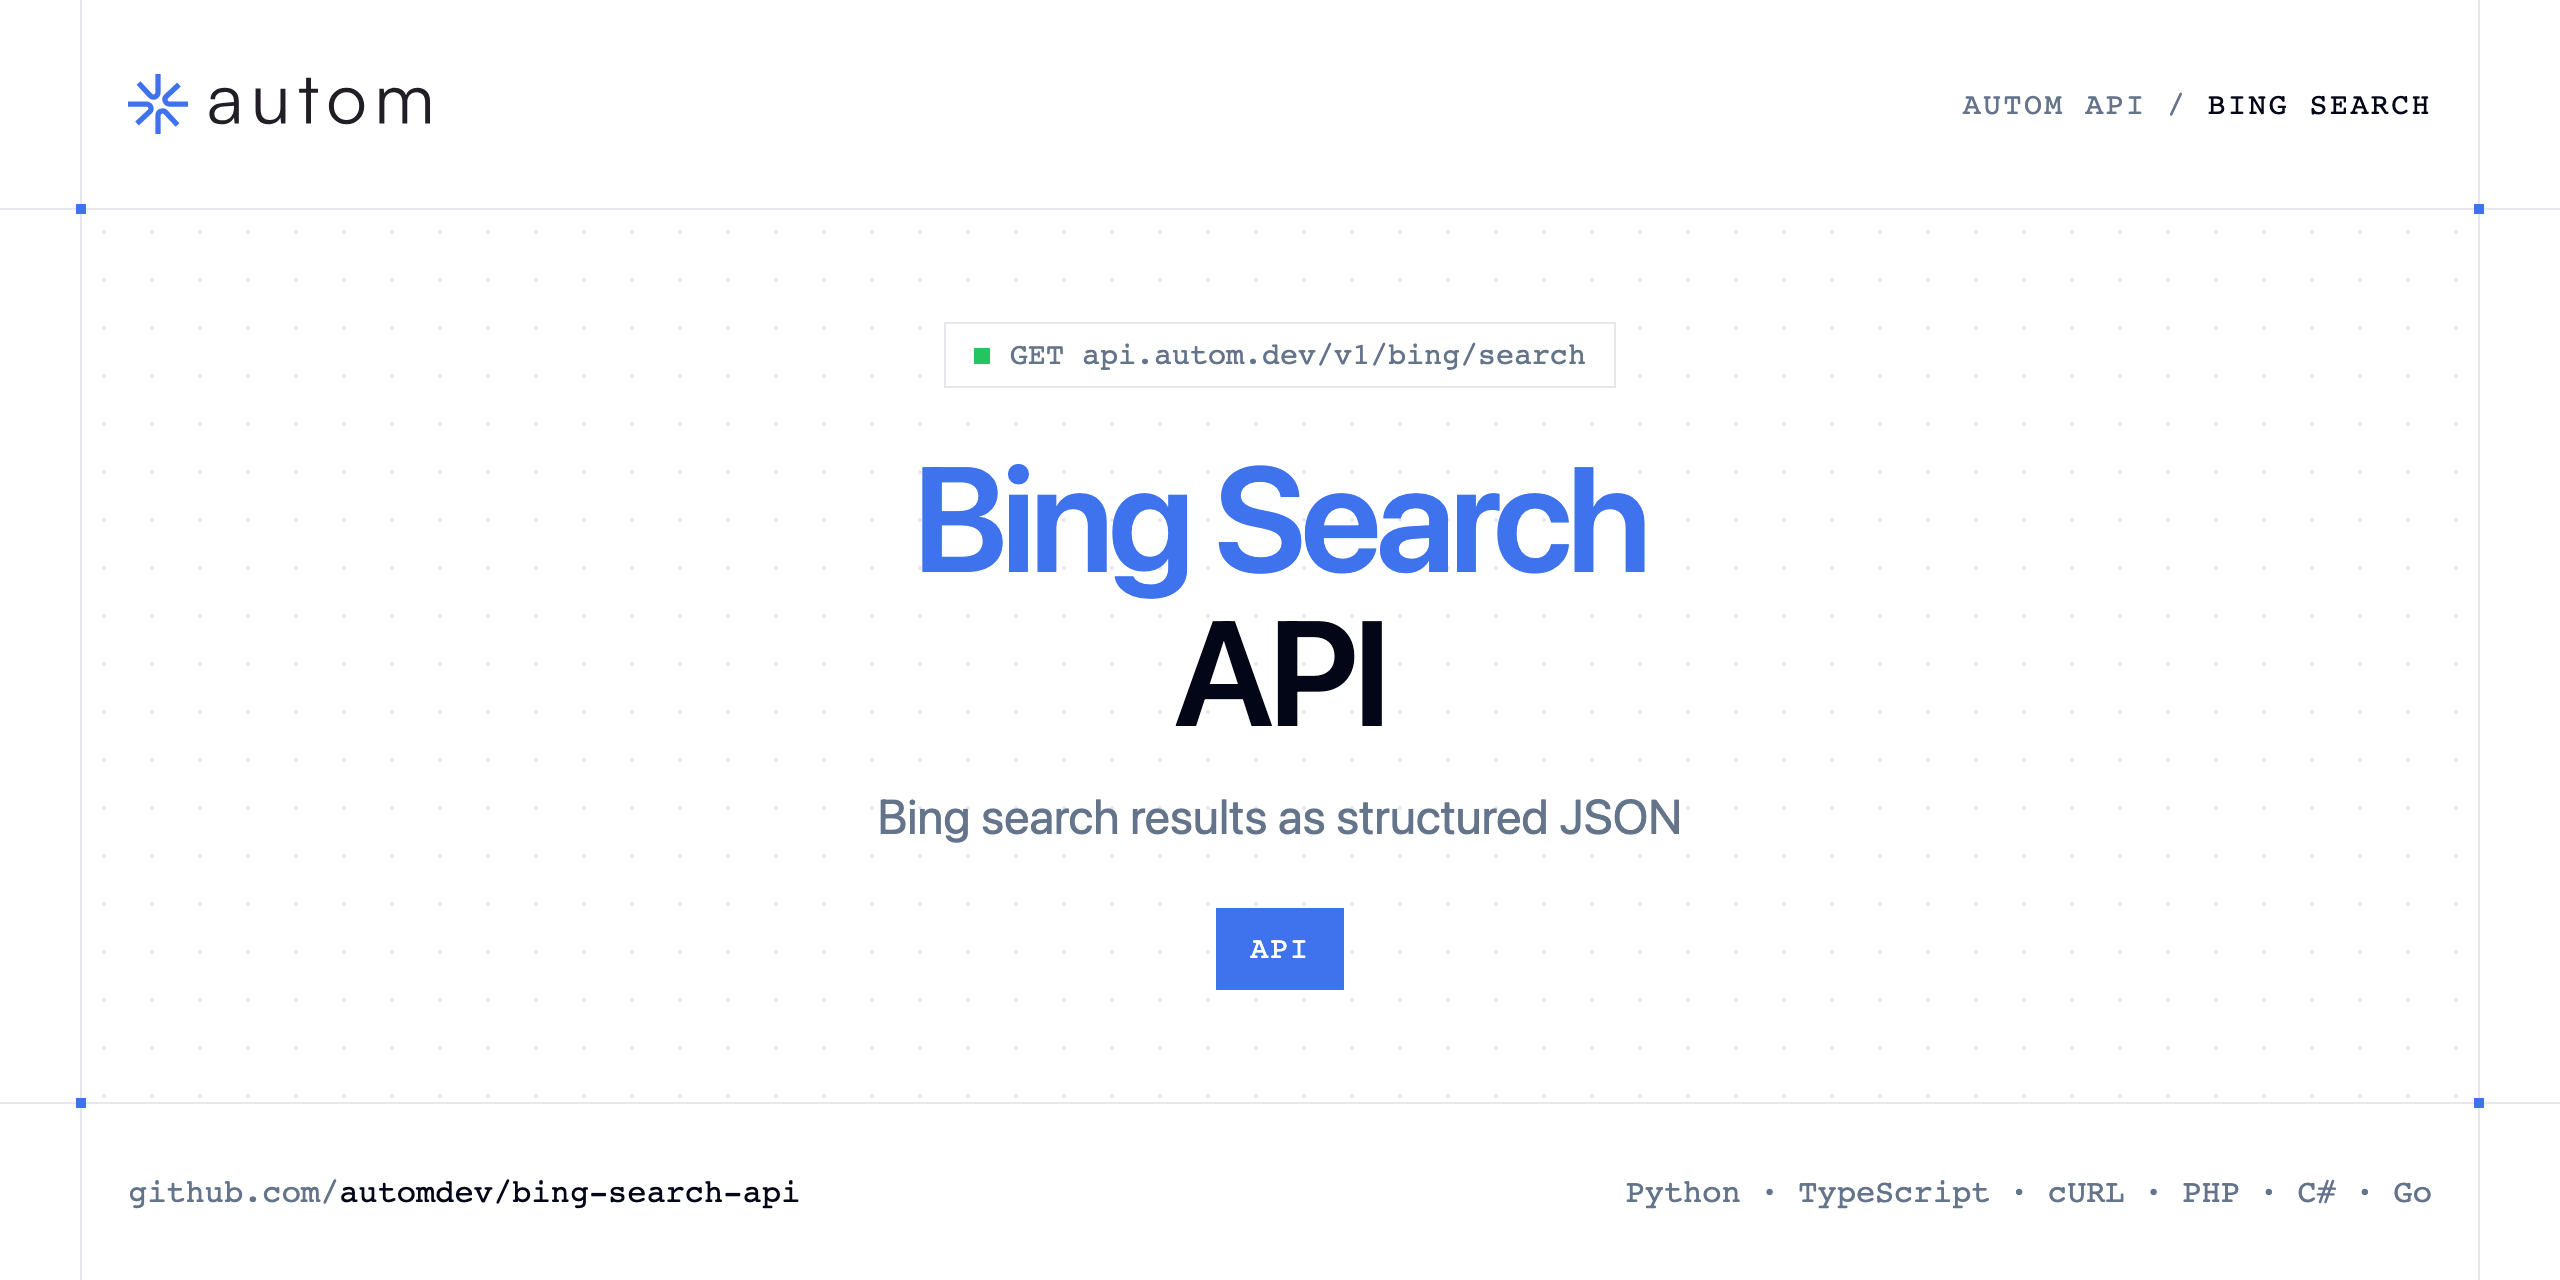
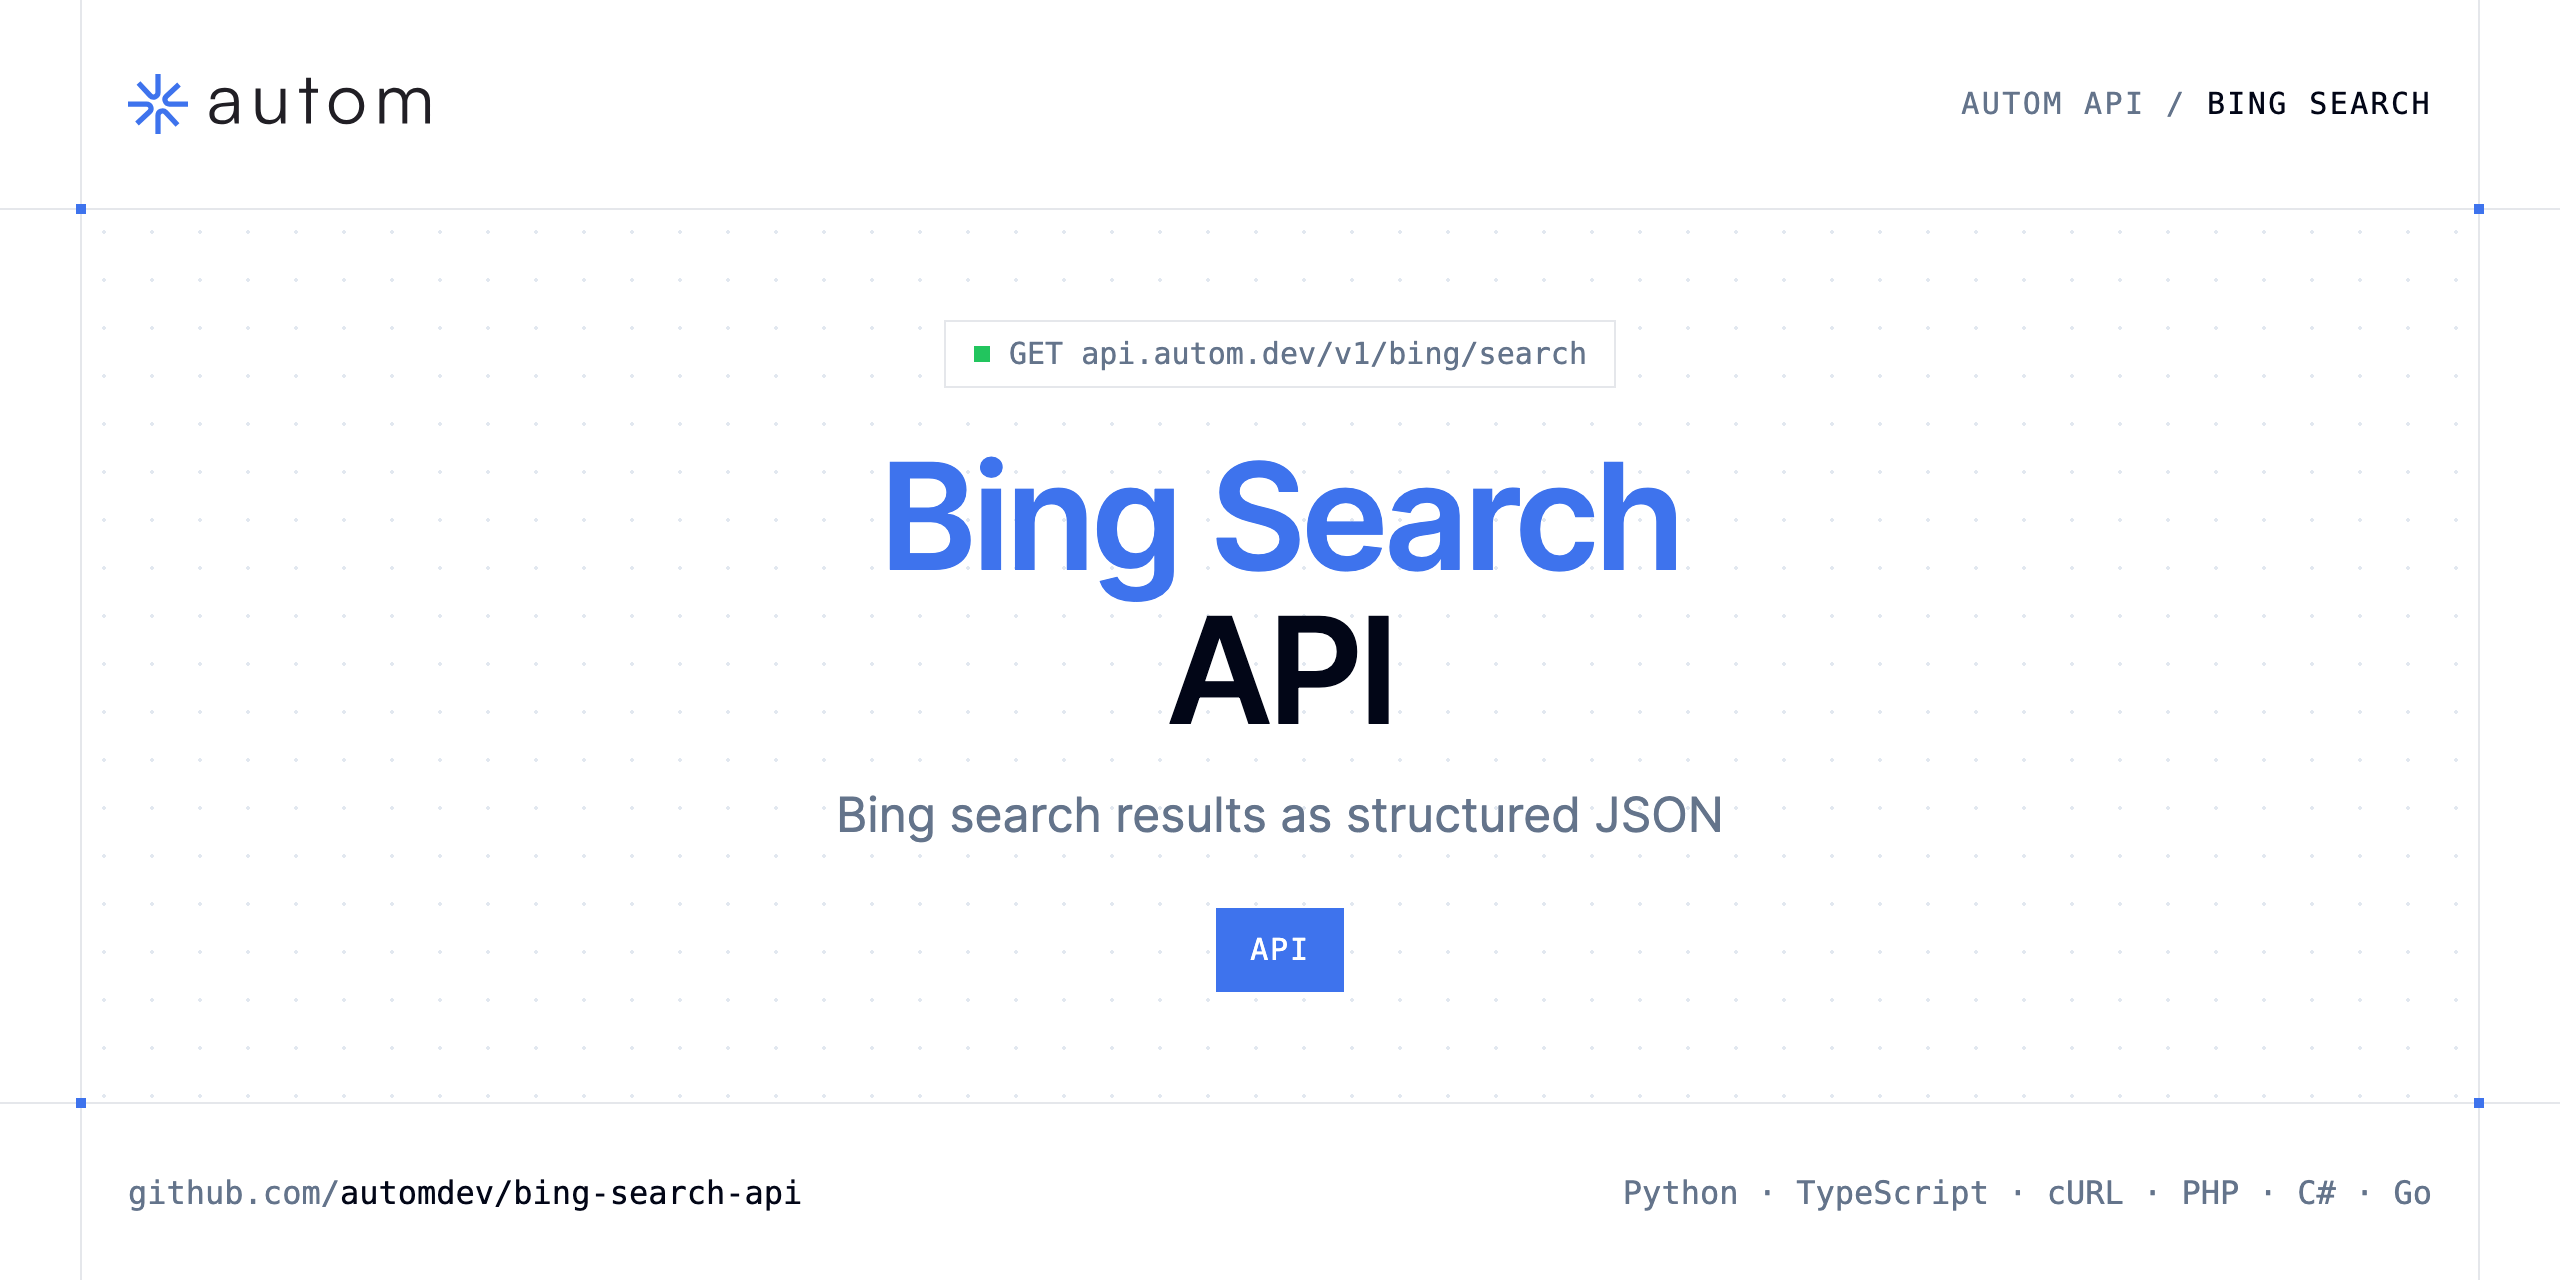
Update Bing Search API examples and docs

diff --git a/README.md b/README.md
@@ -95,12 +95,13 @@ type BingSearchApi = {
     link?: string;
     title?: string;
     domain?: string;
-    snippet?: unknown;
+    snippet?: string;
     position?: number;
   }[];
   search_parameters?: {
     q?: string;
     cc?: string;
+    mkt?: string;
     page?: number;
     engine?: string;
   };
@@ -132,16 +133,17 @@ Example response from the API reference, abridged.
   },
   "organic_results": [
     {
-      "link": "https://home.google.com/intl/fr_fr/get-app/",
-      "title": "Téléchargez l'application Google Home",
-      "domain": "home.google.com",
-      "snippet": null,
-      "position": 2
+      "link": "https://openai.com/",
+      "title": "OpenAI",
+      "domain": "openai.com",
+      "snippet": "OpenAI is an AI research and deployment company.",
+      "position": 1
     }
   ],
   "search_parameters": {
-    "q": "home",
-    "cc": "en-US",
+    "q": "openai",
+    "cc": "us",
+    "mkt": "en-US",
     "page": 1,
     "engine": "bing"
   }
@@ -160,11 +162,12 @@ Example response from the API reference, abridged.
 | `organic_results[].link` | string |  |
 | `organic_results[].title` | string |  |
 | `organic_results[].domain` | string |  |
-| `organic_results[].snippet` | object |  |
+| `organic_results[].snippet` | string |  |
 | `organic_results[].position` | integer |  |
 | `search_parameters` | object |  |
 | `search_parameters.q` | string |  |
 | `search_parameters.cc` | string |  |
+| `search_parameters.mkt` | string |  |
 | `search_parameters.page` | integer |  |
 | `search_parameters.engine` | string |  |
 
